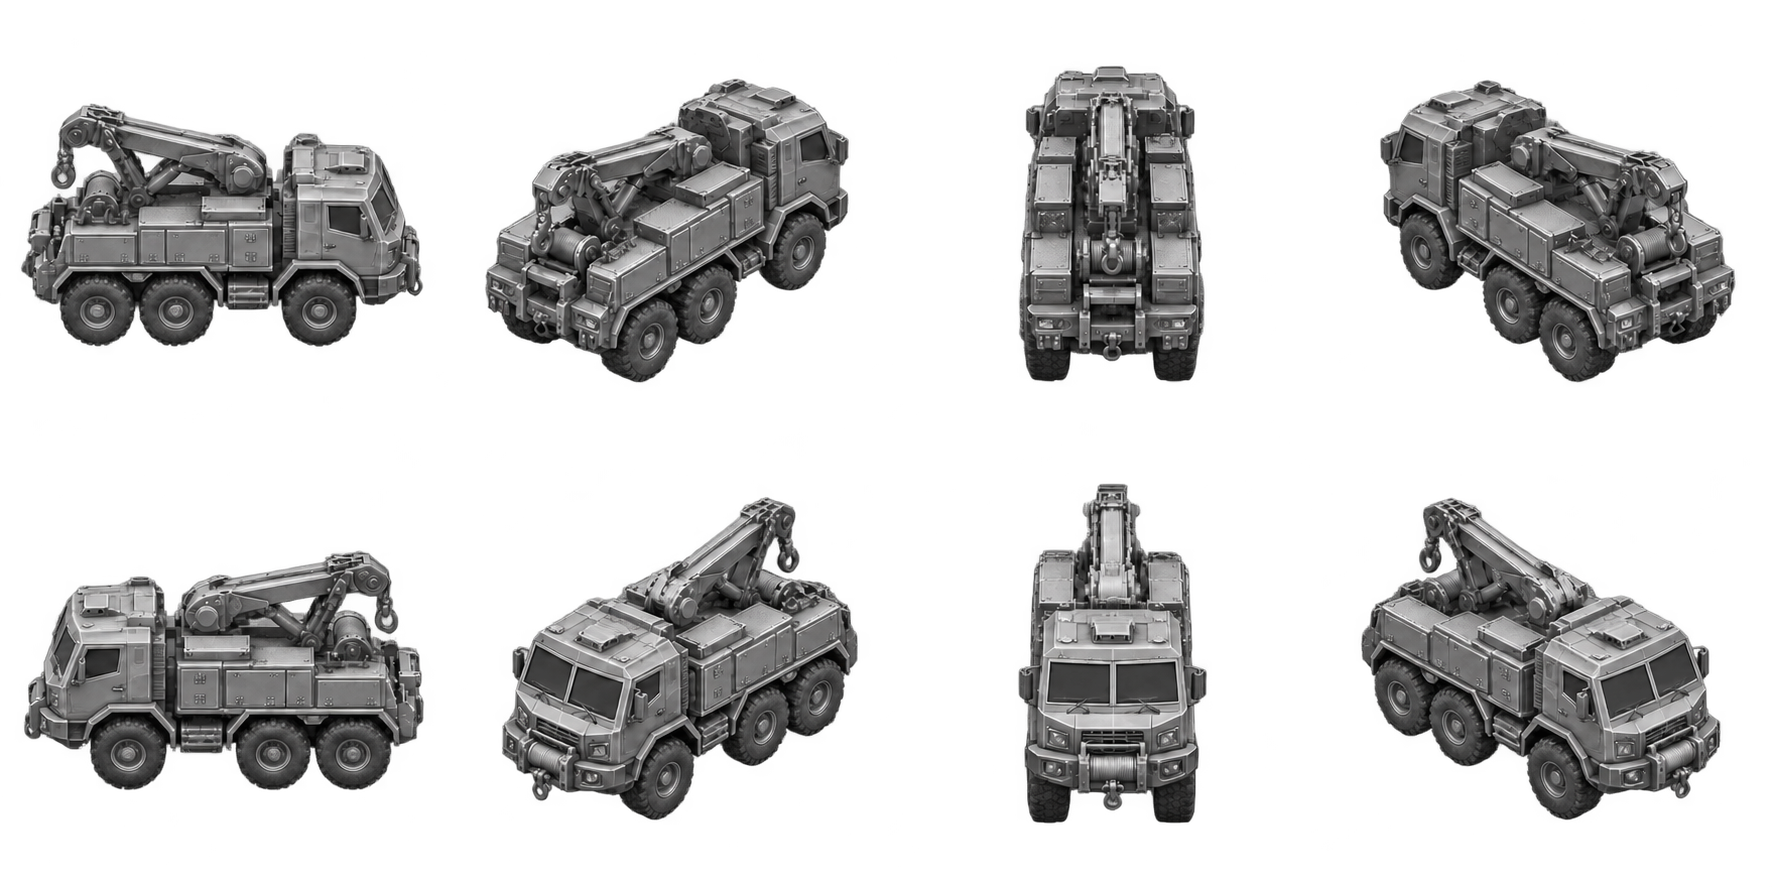
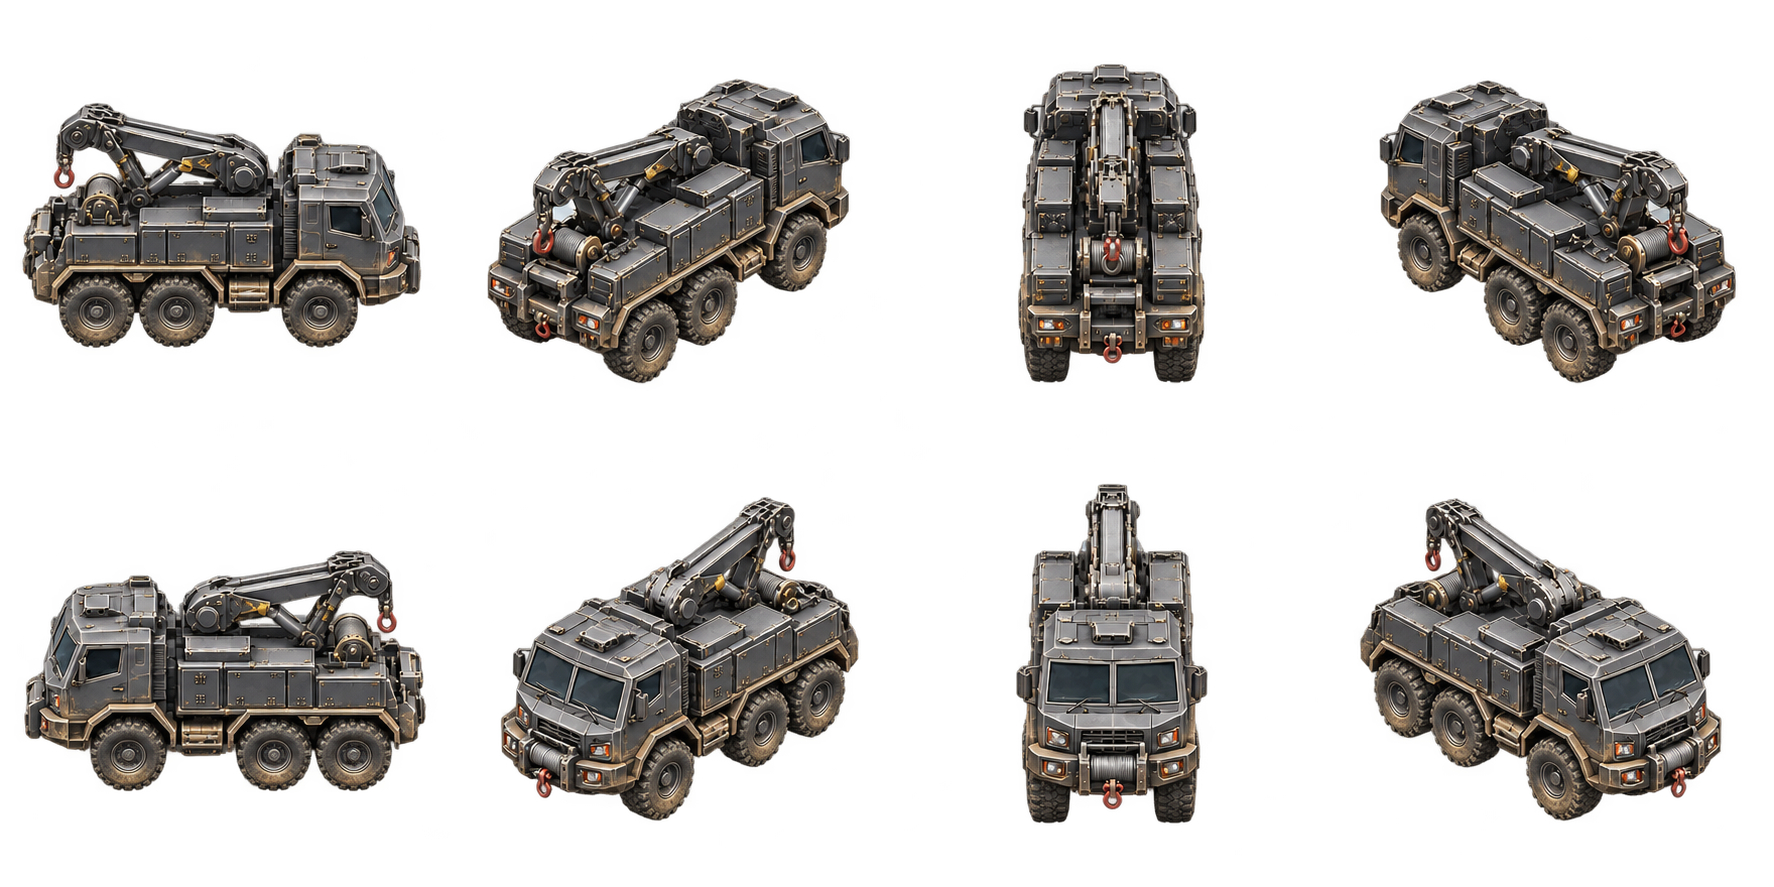
v6.34: 更新维修车八向素材

diff --git a/md/art/v6.34-repair-truck-art.md b/md/art/v6.34-repair-truck-art.md
@@ -1,0 +1,5 @@
+# v6.34 维修车方向素材
+
+内置 imagegen 以原维修车图集为格位、朝向与比例参考生成；原图保存在 `/Users/a114514/.codex/generated_images/1/v6.34-repair-truck-eight.png`，项目资源为逐字节副本。透明图集为四列两行；云端原生画面尚待验证。
+
+提示词：Use case: stylized-concept. Asset: transparent 4 by 2 eight-heading sprite atlas for an isometric desert RTS. Use the supplied image as strict template: same eight vehicle headings in the same cells, same orthographic camera, consistent scale, crane placement and vehicle proportions. Re-render the same six-wheeled military repair truck as a premium production game asset with graphite armor, detailed rugged tires, crane hydraulics, tool cabinets, restrained sandy wear and clear small-scale silhouette. One centered complete vehicle per cell, generous transparent margins. No ground, baked shadow, lettering, grid, border, extra objects or watermark.
